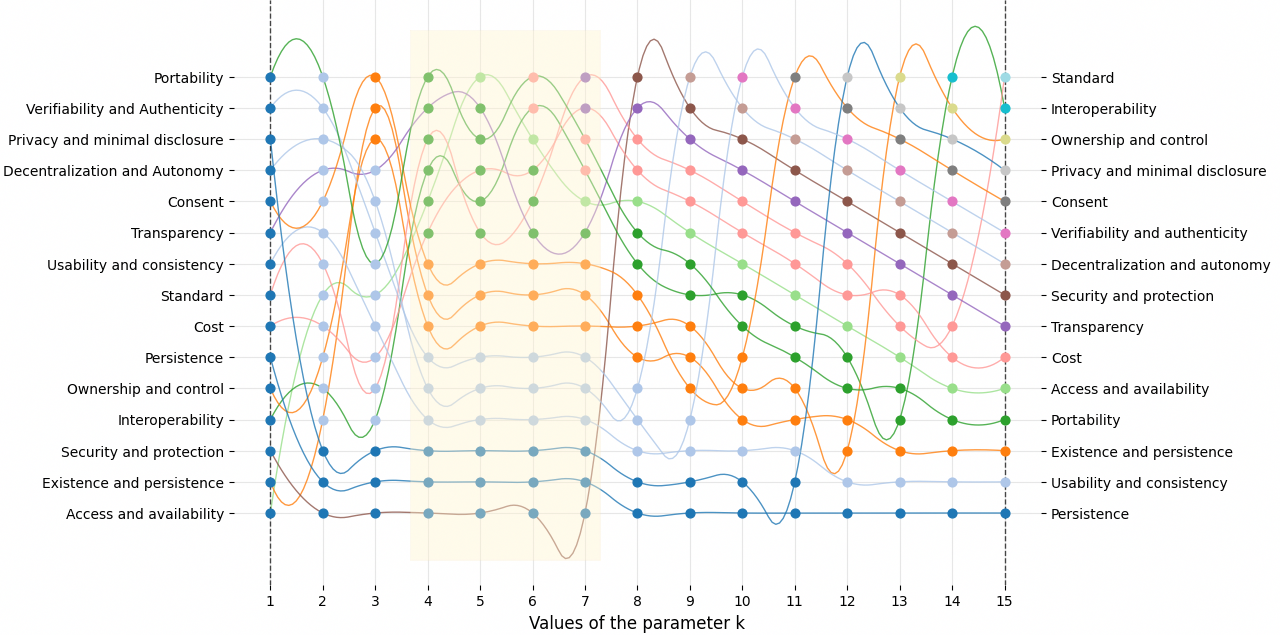
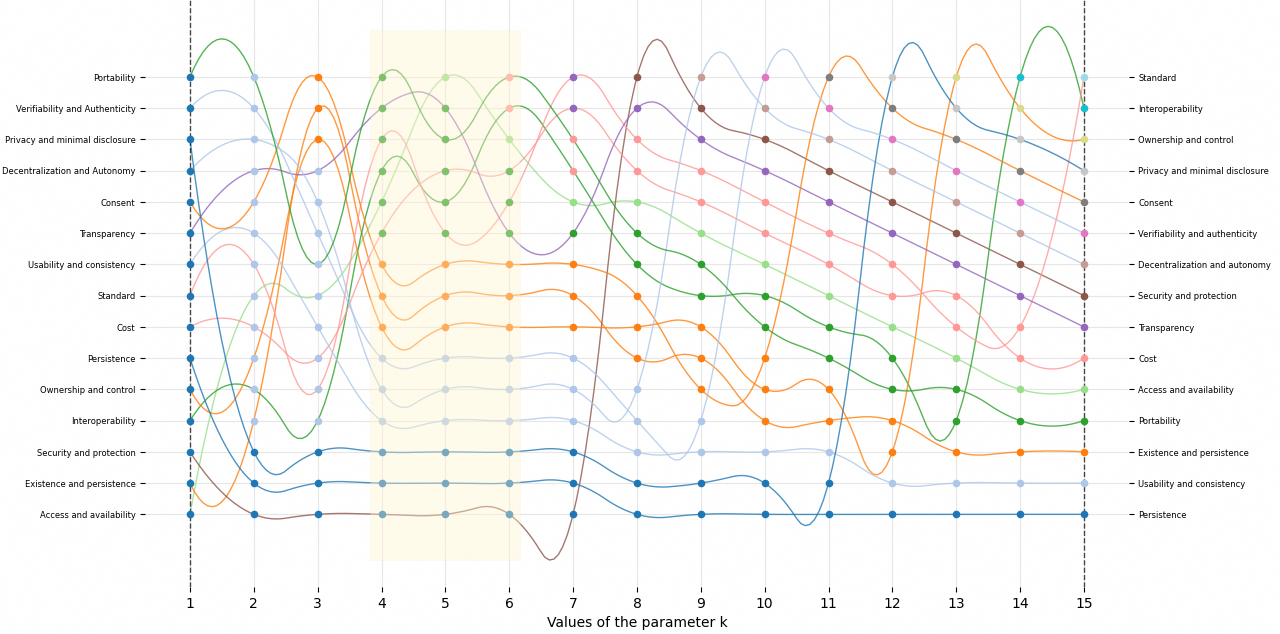
.

diff --git a/definition/program/clustering/kmeans/Flowchart_principles.py b/definition/program/clustering/kmeans/Flowchart_principles.py
@@ -65,25 +65,25 @@ for i, principle in enumerate(principles_left):
     # Add scatter points
     for step_idx, step in enumerate(steps):
         group = group_assignments[i, step_idx]
-        ax.scatter(step, y_positions[step_idx], color=color_map[group], marker='o', s=40, zorder=3)
+        ax.scatter(step, y_positions[step_idx], color=color_map[group], marker='o', s=20, zorder=3)  # Reduced size
 
 # Left-side labels (original order)
 ax.set_yticks(range(len(principles_left)))
-ax.set_yticklabels(principles_left, fontsize=10)
+ax.set_yticklabels(principles_left, fontsize=6)
 ax.set_ylabel("")
 
 # Right-side labels (desired order)
 ax2 = ax.twinx()
 ax2.set_ylim(ax.get_ylim())  
 ax2.set_yticks(range(len(principles_right)))
-ax2.set_yticklabels(principles_right, fontsize=10)
+ax2.set_yticklabels(principles_right, fontsize=6)
 ax2.set_ylabel("")
 ax2.yaxis.set_label_position("right")
 ax2.yaxis.tick_right()
 
 # Graph title and labels
 ax.set_title("", fontsize=14, weight='bold')
-ax.set_xlabel("Values of the parameter k", fontsize=12)
+ax.set_xlabel("Values of the parameter k", fontsize=10)
 ax.set_xticks(steps)
 ax.grid(visible=True, alpha=0.3)
 
